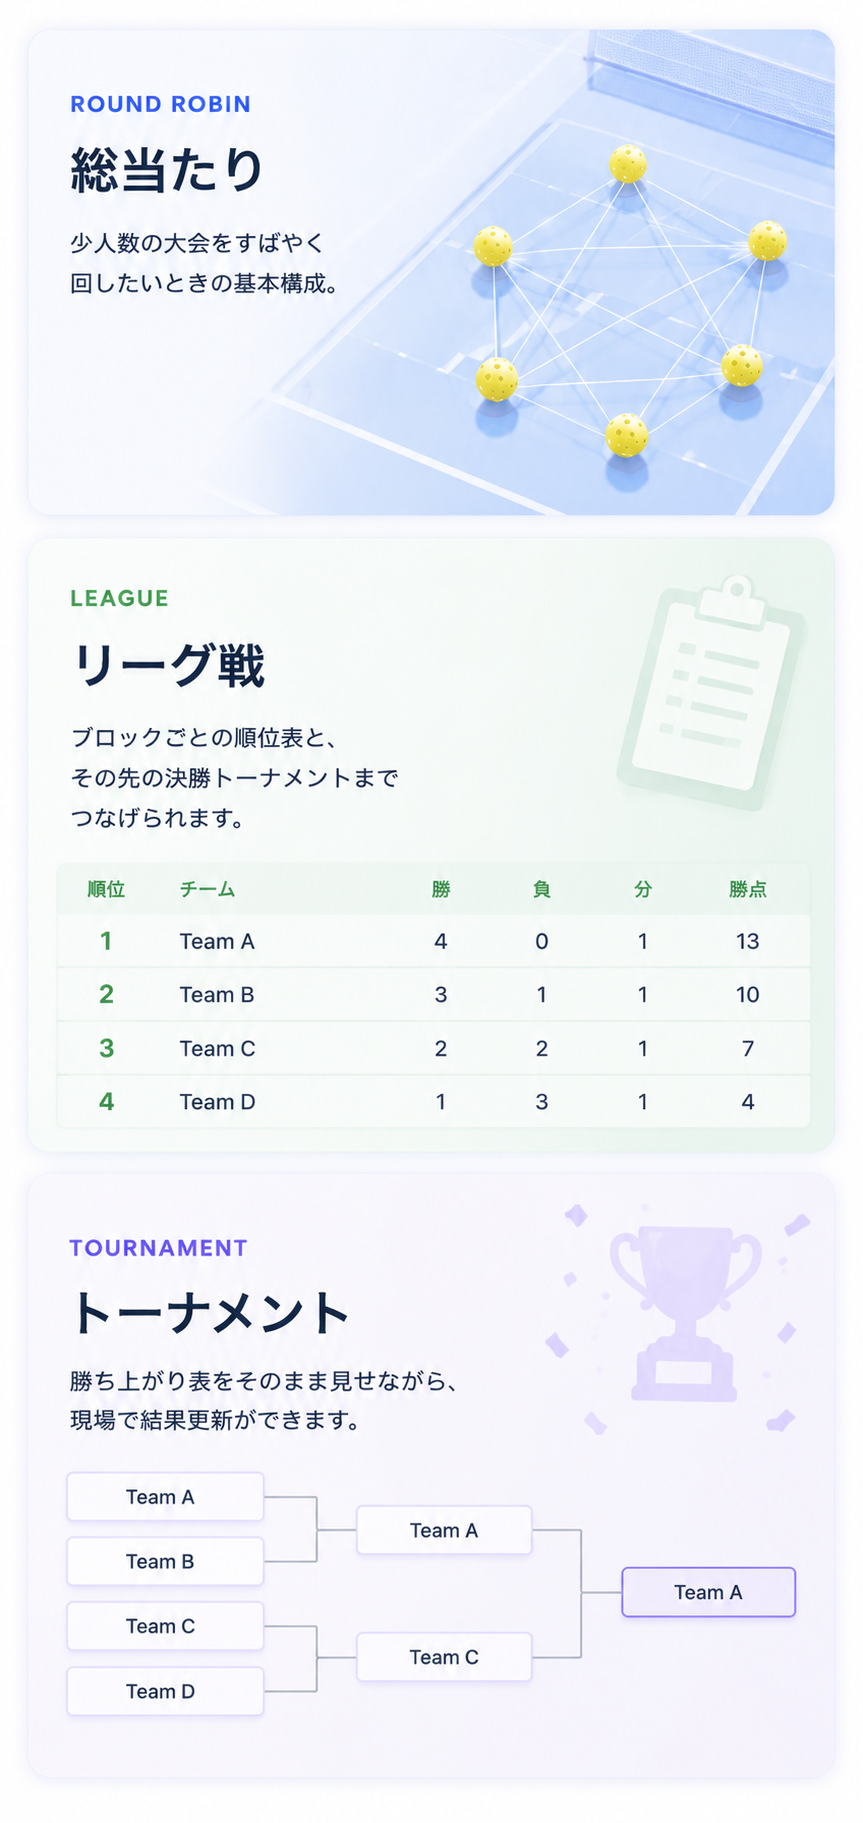
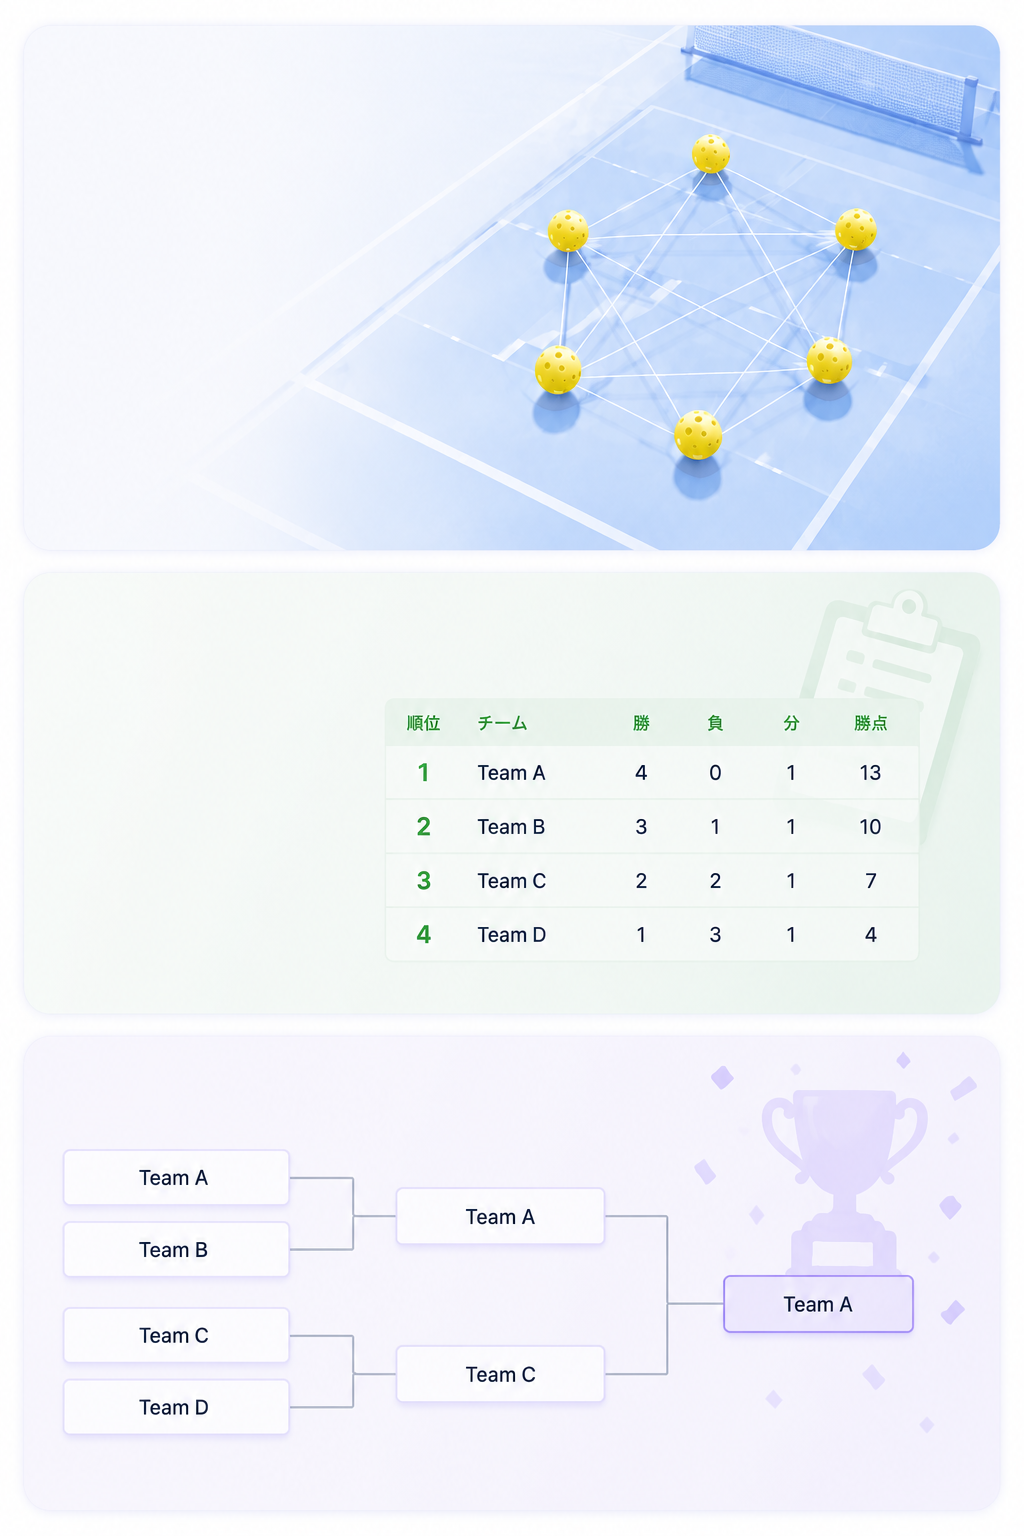
ｄ

diff --git a/app/globals.css b/app/globals.css
@@ -582,51 +582,52 @@ select option {
 
     .format-board-copy-item {
       position: absolute;
-      left: 5.3%;
-      width: 39.8%;
+      left: 4.9%;
+      width: 39.5%;
       display: flex;
       flex-direction: column;
       justify-content: flex-start;
       align-items: flex-start;
-      padding: 0.45rem 0.55rem 0.55rem;
+      padding: 0;
       border-top: 0;
-      border-radius: 18px;
-      background:
-        linear-gradient(180deg, rgba(250, 252, 255, 0.96), rgba(247, 250, 255, 0.9)),
-        rgba(255, 255, 255, 0.9);
-      box-shadow: 0 10px 24px rgba(124, 142, 191, 0.08);
+      border-radius: 0;
+      background: none;
+      box-shadow: none;
+      z-index: 1;
+      pointer-events: none;
     }
 
     .format-board-copy-item:nth-child(1) {
-      top: 4.05%;
-      min-height: 12.8%;
+      top: 4.55%;
+      min-height: 13.8%;
     }
 
     .format-board-copy-item:nth-child(2) {
-      top: 31.45%;
-      min-height: 15.2%;
+      top: 38.6%;
+      min-height: 16.6%;
     }
 
     .format-board-copy-item:nth-child(3) {
-      top: 68.35%;
-      min-height: 13.7%;
+      top: 74.2%;
+      min-height: 13.9%;
     }
 
     .format-board-kicker {
-      font-size: 0.74rem;
-      letter-spacing: 0.05em;
+      font-size: 0.72rem;
+      letter-spacing: 0.04em;
     }
 
     .format-board-copy-item h2 {
-      margin-top: 0.52rem;
-      font-size: 1.5rem;
-      line-height: 1.04;
+      margin-top: 0.44rem;
+      font-size: 1.48rem;
+      line-height: 1.08;
     }
 
     .format-board-copy-item p:last-child {
-      margin-top: 0.56rem;
-      font-size: 0.69rem;
-      line-height: 1.52;
+      margin-top: 0.5rem;
+      font-size: 0.64rem;
+      line-height: 1.58;
+      max-width: 95%;
     }
   }
 